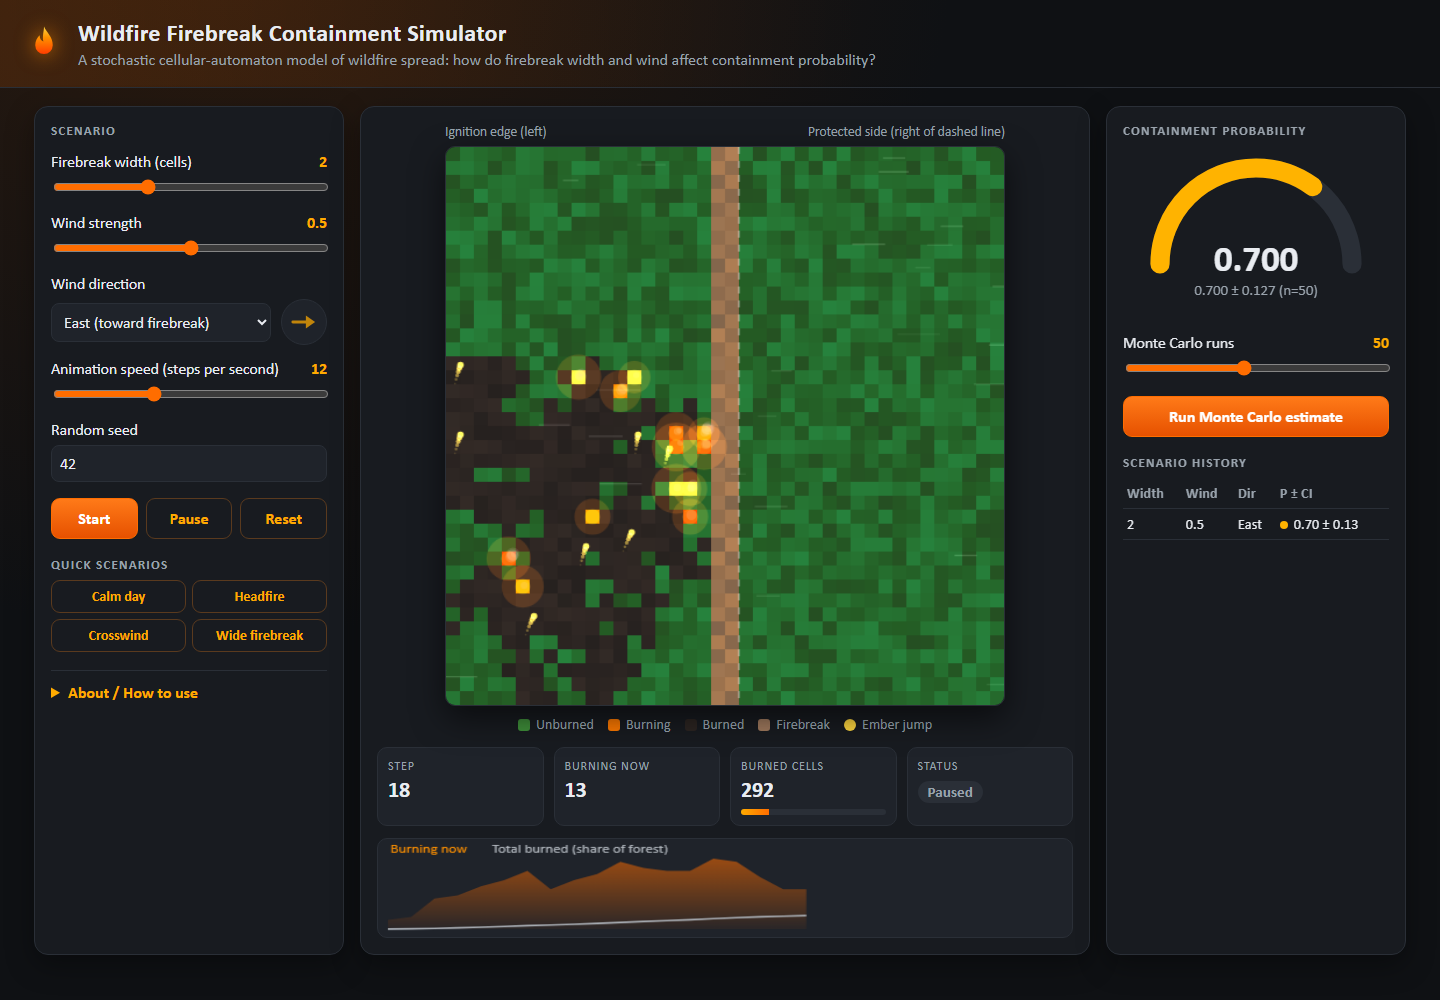
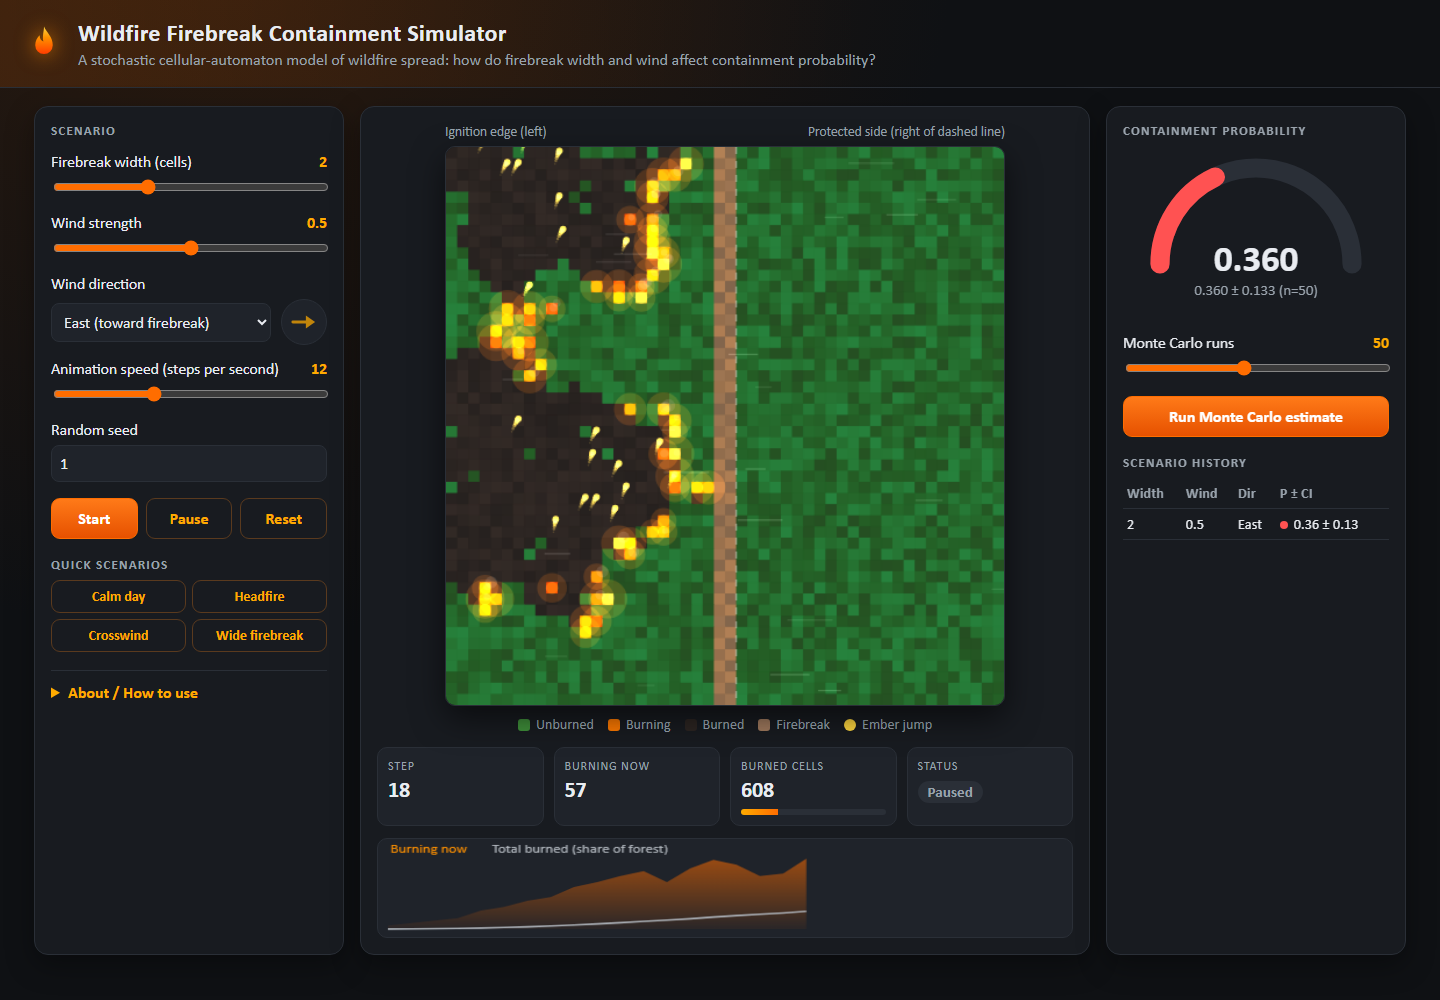
Add experiment figures and update simulator docs

diff --git a/docs/index.html b/docs/index.html
@@ -794,7 +794,8 @@ if (typeof location !== "undefined" && location.hash.indexOf("#snapshot") === 0)
     const btn = document.getElementById("preset" + presetName.charAt(0).toUpperCase() + presetName.slice(1));
     if (btn) btn.click();
   }
-  for (let k = 0; k < 300 && !sim.done; k++) advance();
+  const snapSteps = presetName ? 300 : 18;   // presets run to the end; plain #snapshot stops part way
+  for (let k = 0; k < snapSteps && !sim.done; k++) advance();
   runMonteCarlo();
 }
 requestAnimationFrame(frame);

diff --git a/README.md b/README.md
@@ -51,6 +51,16 @@ This project applies discrete-time Markov chains to model the stochastic grid up
 
 Containment probability rises quickly with firebreak width, from 1% to 9% with no firebreak to 100% at a width of 3 cells, which is the length of the longest ember jump. Wind direction matters more than wind strength on its own: at width 1, the fire was contained in 100% of runs when the wind blew away from or along the firebreak, but in only about 9% of runs when it blew straight at it. Most of the drop happens as soon as there is any wind, because that is when ember spotting switches on; after that, stronger wind changes the result only a little. Once there is any wind toward the firebreak, a width of at least 3 cells is needed for 90% containment. Making the fuel patchy instead of uniform also changes the result (0.38 vs 0.27 at width 1), so fuel layout matters too.
 
+| Containment vs firebreak width | Containment vs wind strength | Containment vs wind direction |
+|---|---|---|
+| ![Experiment 1](figures/experiment1-width.png) | ![Experiment 2](figures/experiment2-wind-strength.png) | ![Experiment 3](figures/experiment3-wind-direction.png) |
+
+| Example final grid | Patchy vegetation density | Sensitivity and uncertainty |
+|---|---|---|
+| ![Example run](figures/example-final-grid.png) | ![Density field](figures/vegetation-density-field.png) | ![Sensitivity heatmaps](figures/sensitivity-heatmaps.png) |
+
+All plots are produced by the notebook (`notebook/wildfire-firebreak-simulator.ipynb`) with fixed seeds, so re-running it reproduces them exactly.
+
 ## Limitations and future work
 
 - Slope and fuel moisture are not modelled, and the main experiments use uniform fuel.

diff --git a/THEORY.md b/THEORY.md
@@ -44,7 +44,7 @@ where Y_r is 1 if run r was contained and 0 if not. The 95% confidence interval 
 |---|---|---|---|---|
 | L | Grid side length | cells | 50 (40 to 80 in the resolution check) | Chosen to balance detail and runtime |
 | W | Firebreak width | cells | 0 to 6 | Varied in the experiments |
-| p0 | Base ignition probability | probability | 0.3 for the grid-resolution check and Experiments 1-3 (default of `containment_probability`); 0.25 for the single example run, the error-scaling check and extensions X3/X5 | Assumed; tuned so results are not always 0% or always 100% |
+| p0 | Base ignition probability | probability | 0.3 for the grid-resolution check, Experiments 1-3 and the sensitivity sweep (default of `containment_probability`); 0.25 for the single example run, the error-scaling check and the vegetation-density extension | Assumed; tuned so results are not always 0% or always 100% |
 | s | Wind strength | 0 to 1 (no units) | 0.0 to 1.0 | Varied in the experiments |
 | p_ember | Ember spotting probability | per burning cell per step | 0.05 | Assumed; tuned together with p0 |
 | N | Monte Carlo runs per setting | count | 80 to 150 (10 to 160 in the error-scaling check) | Enough for a usable 95% CI within the runtime limit |

diff --git a/USER_GUIDE.md b/USER_GUIDE.md
@@ -40,6 +40,6 @@ With the default settings (width 2, wind strength 0.5, East, seed 1, 50 runs) th
 
 ## Limitations
 
-- The demo uses a 40x40 grid (the notebook mostly uses 50x50) to keep the animation smooth. The notebook's resolution check shows the probability can change noticeably with grid size, so compare trends rather than exact numbers.
+- The demo uses the same 50x50 grid and p0 = 0.3 as the notebook's experiments, but a different random number generator, so its numbers agree within the confidence intervals rather than exactly. The notebook's resolution check shows the probability depends on grid size, so the values are specific to this grid.
 - The browser estimate uses at most 100 runs, so its confidence interval is wider than the notebook's 150-run experiments.
 - Patchy fuel, slope and fuel moisture are not in the demo; only firebreak width and wind can be changed.
